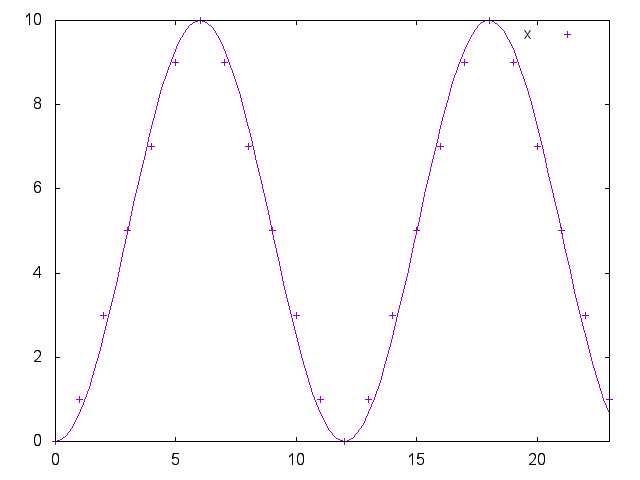
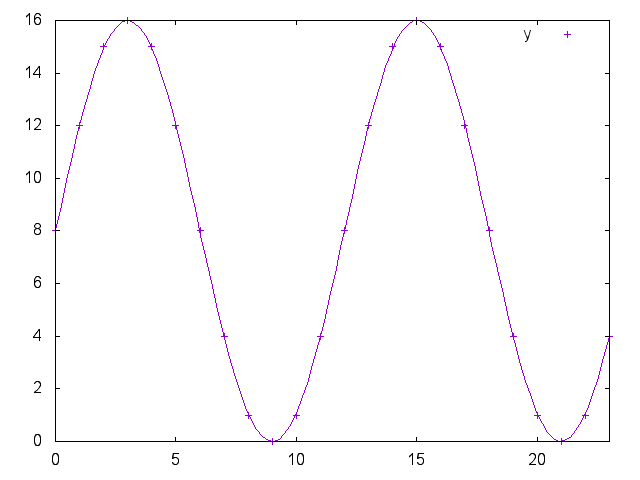
swap x and y functions

diff --git a/README.md b/README.md
@@ -27,13 +27,13 @@ INVALID INPUT
 The solution relies on two equations:
 
 ```
-x(hour) = -5 cos((2 pi / 12) hour) + 5
+x(hour) = 8 sin(((2 pi / 12) hour) + 8
 ```
 
 ![plot of x(hour)](plot-x.png)
 
 ```
-y(hour) = 8 sin(((2 pi / 12) hour) + 8
+y(hour) = -5 cos((2 pi / 12) hour) + 5
 ```
 
 ![plot of y(hour)](plot-y.png)
